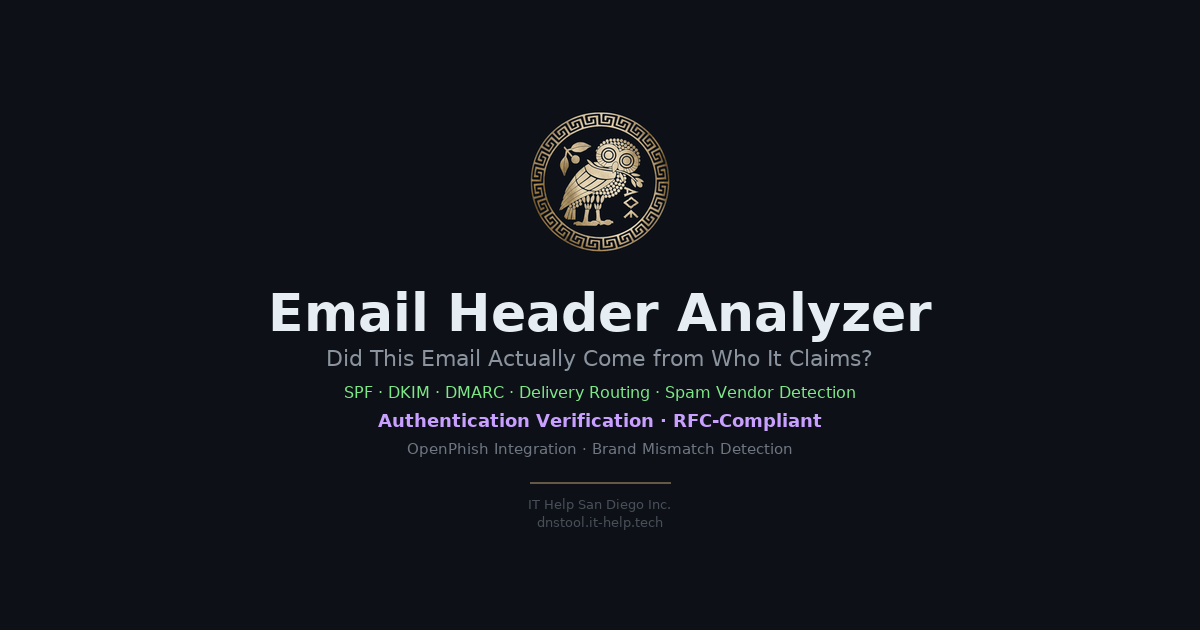
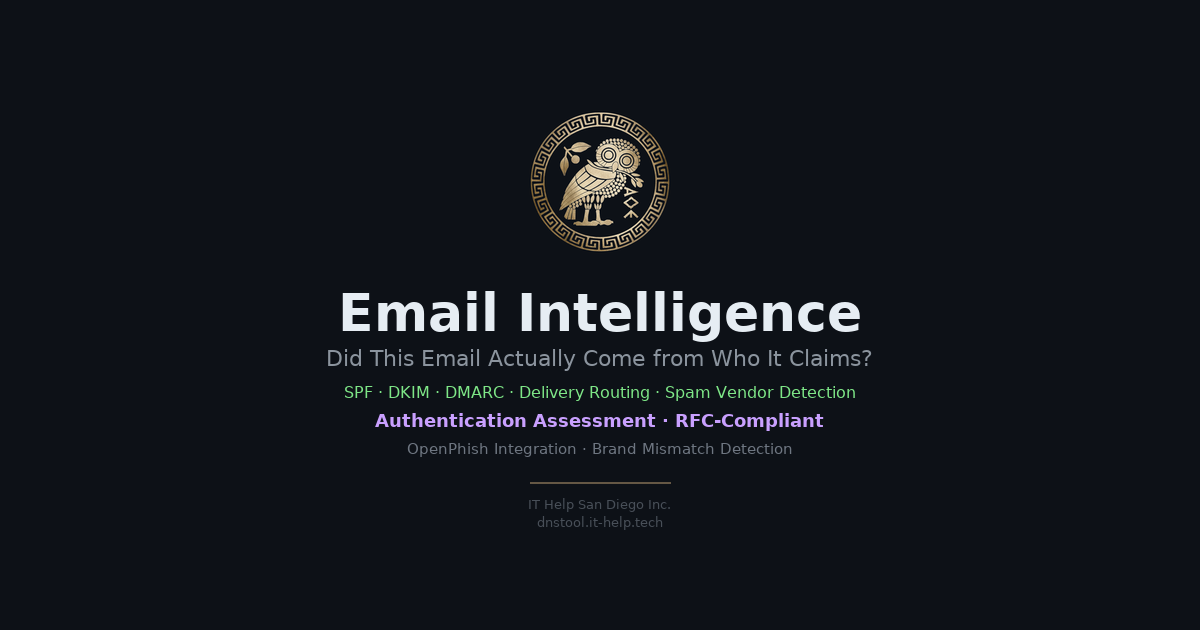
Update email intelligence card and fix authentication terminology
Modify the Open Graph image generation script to use "Email Intelligence" as the product name and "Authentication Assessment" for the email header analysis card, aligning with updated naming conventions and feature descriptions.

Replit-Commit-Author: Agent
Replit-Commit-Session-Id: 6771c304-e587-47df-bf5b-409bdfbeade9
Replit-Commit-Checkpoint-Type: full_checkpoint
Replit-Commit-Event-Id: 224bc0d5-cf02-48d2-b717-e4e74b27cdaa
Replit-Commit-Screenshot-Url: https://storage.googleapis.com/screenshot-production-us-central1/f2c73519-b3f3-4c33-90b1-699f833acae8/6771c304-e587-47df-bf5b-409bdfbeade9/rEVXYEU
Replit-Helium-Checkpoint-Created: true

Changed region(s): [[0.2158, 0.4524, 0.4933, 0.5429], [0.5242, 0.4524, 0.7708, 0.5429], [0.3083, 0.6333, 0.6783, 0.6937]]

diff --git a/scripts/generate-og-images.py b/scripts/generate-og-images.py
@@ -166,10 +166,10 @@ cards = [
      "Evidence-Based Attribution \u00b7 Multi-Source",
      "Certificate Transparency \u00b7 Subdomain Discovery"),
     ("og-email-header.png",
-     "Email Header Analyzer",
+     "Email Intelligence",
      "Did This Email Actually Come from Who It Claims?",
      "SPF \u00b7 DKIM \u00b7 DMARC \u00b7 Delivery Routing \u00b7 Spam Vendor Detection",
-     "Authentication Verification \u00b7 RFC-Compliant",
+     "Authentication Assessment \u00b7 RFC-Compliant",
      "OpenPhish Integration \u00b7 Brand Mismatch Detection"),
     ("og-ttl-tuner.png",
      "TTL Tuner",
